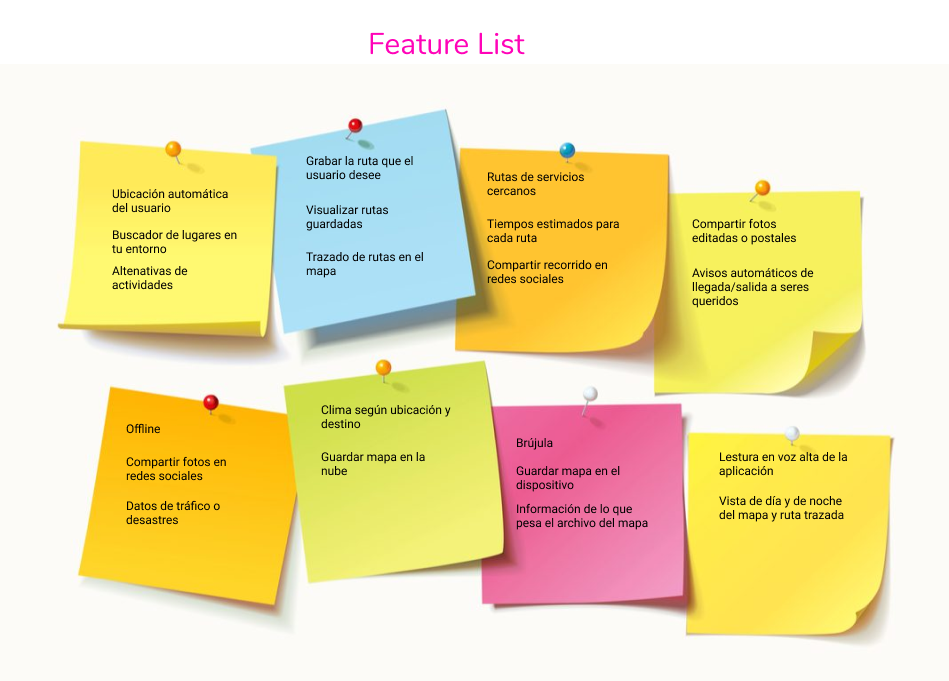
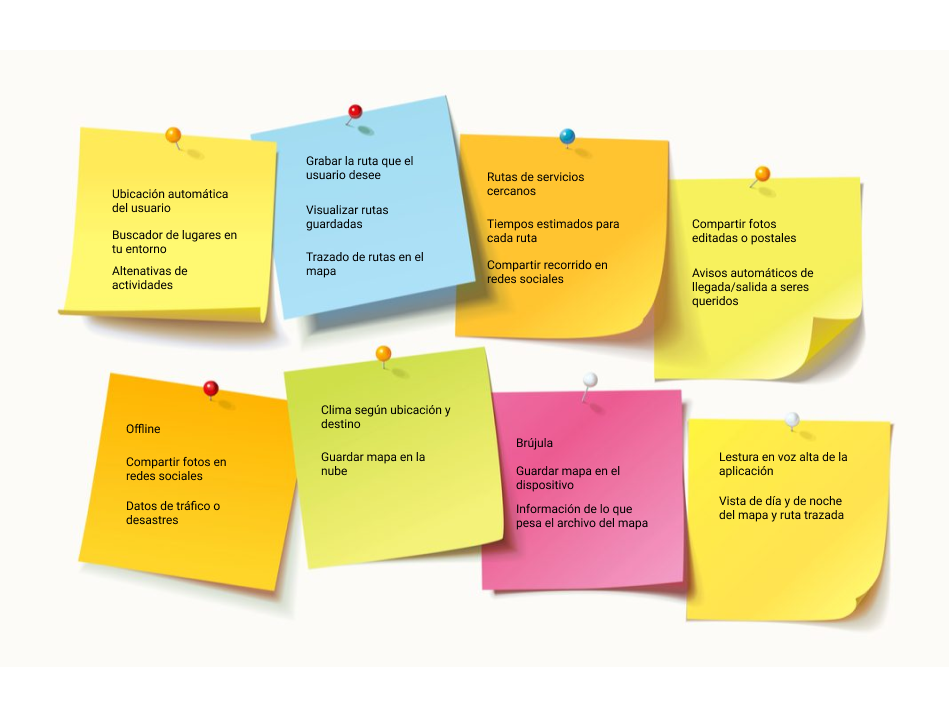
arreglos en ideación

Changed region(s): [[0.0611, 0.1233, 0.9473, 0.9559], [0.3973, 0.0308, 0.5501, 0.0925], [0.0611, 0.2467, 0.0917, 0.2775]]

diff --git a/README.md b/README.md
@@ -92,13 +92,19 @@ Nuestra propuesta es una aplicación destinado a los que les encanta viajar y vi
 
 ![User persona](assets/docs/user-persona.jpg)
 
-## **FEATURE LIST**
+## **IDEACIÓN**
+
+### Lista de ideas
 
 ![Feature List](assets/docs/postits.png)
 
 ### Priorización
 
 ![Priorización](assets/docs/priorizacion.png)
+
+### Feature List
+
+![Priorización](assets/docs/featurelist.png)
 
 ## User flow
 
